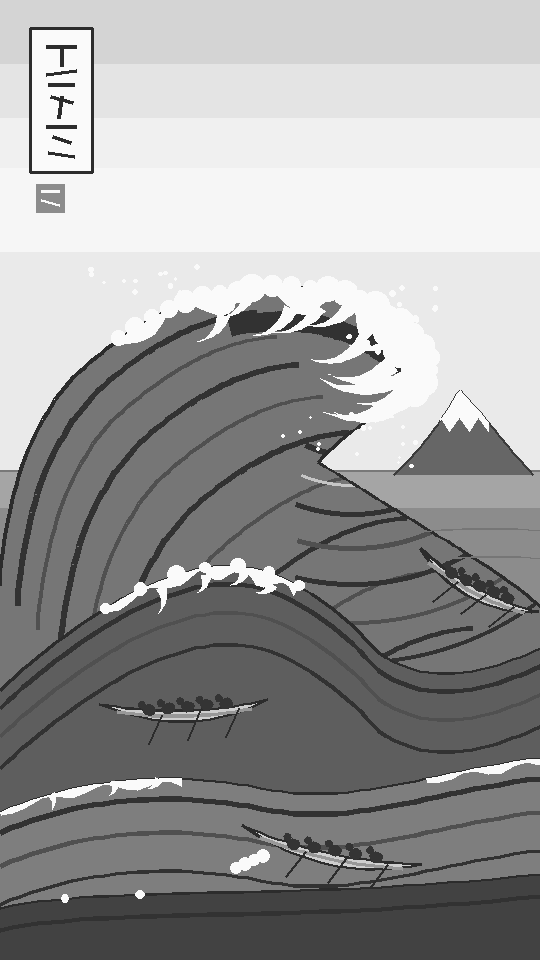
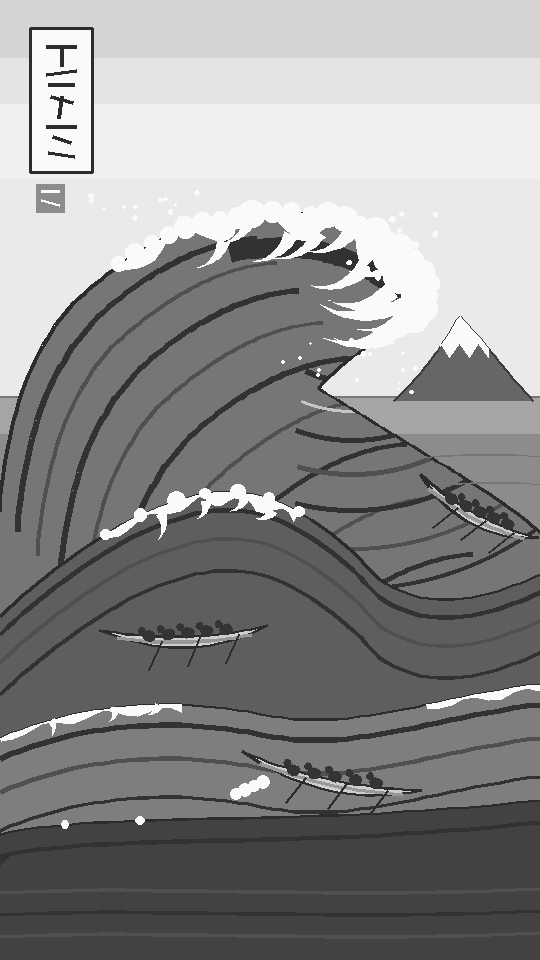
Wave: close the dead sky band, lift the composition into the frame
The print reserved y168-252 as empty paper, which read as a hole on
the panel. Recompose step lifts the sea 74px up into it, extends the
deep foreground water to fill behind, retunes the bokashi sky bands
to the new proportions, and redraws the cartouche and seal on top.
The crest now breaks near the top of the frame with Fuji framed under
the curl.

diff --git a/tools/special/wave_faithful.py b/tools/special/wave_faithful.py
@@ -403,6 +403,41 @@ for _ in range(12):
     d.ellipse((x - r, y - r, x + r, y + r), fill=FOAM)
 
 # ============================================================
+# 9. RECOMPOSE -- close the dead sky band
+# ============================================================
+# The sky reserved y168..252 as empty paper, which read as a hole on
+# the panel. Lift everything from the sea up into it and extend the
+# deep foreground to fill behind, so the wave breathes into the top
+# of the frame instead of floating below a blank strip.
+LIFT = 74
+SEA_TOP = 252
+
+sea = img.crop((0, SEA_TOP, W, H))
+img.paste(sea, (0, SEA_TOP - LIFT))
+
+# extend the darkest foreground water into the gap left at the bottom
+tail = img.crop((0, H - LIFT - 30, W, H - LIFT))
+img.paste(tail.resize((W, LIFT + 30)), (0, H - LIFT - 30))
+for i in range(3):
+    y = H - LIFT + 6 + i * 22
+    stroke(cbez((0, y), (150, y - 7), (380, y + 7), (W, y - 4), n=20),
+           SEA_DEEP if i % 2 else SEA_DARK, 4)
+
+# retune the sky bands to the new proportions
+d.rectangle((0, 0, W, 58), fill=SKY0)
+d.rectangle((0, 58, W, 104), fill=SKY1)
+d.rectangle((0, 104, W, SEA_TOP - LIFT), fill=SKY2)
+
+# redraw the cartouche + seal on top of the reworked sky
+d.rectangle((30, 28, 92, 172), fill=FOAM)
+stroke([(30, 28), (92, 28), (92, 172), (30, 172), (30, 28)], INK, 3)
+for m in marks:
+    stroke(m, INK, 4)
+d.rectangle((36, 184, 64, 212), fill=140)
+stroke([(41, 191), (59, 191)], FOAM, 3)
+stroke([(41, 200), (59, 205)], FOAM, 3)
+
+# ============================================================
 # SAVE + VERIFY
 # ============================================================
 img.save(OUT)
